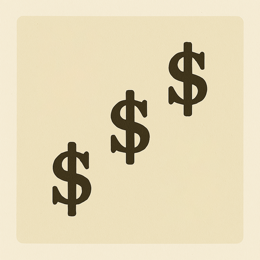
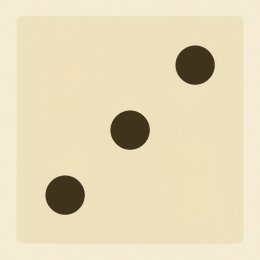
ER$N NO CASH 1118 (master 5750c5c): TOWER LEADERS APPROVED/PENDING, round-pip die, Ap bribe seal, JUICE FLOW deed marker; verify 120/120

Changed region(s): [[0.1538, 0.5231, 0.3692, 0.8308], [0.4, 0.3385, 0.5846, 0.6462], [0.6462, 0.1538, 0.8308, 0.4615]]

diff --git a/3d.html b/3d.html
@@ -1,5 +1,5 @@
 <!DOCTYPE html>
-<!-- ER$N 3D EDITION: cut by 3D PIPELINE games/ersn/lab/tools/make_lab_page.py from index.html (this bundle) sha256 75bfd0ff30f61a7a; 29 /*LAB3D*/ hooks. -->
+<!-- ER$N 3D EDITION: cut by 3D PIPELINE games/ersn/lab/tools/make_lab_page.py from index.html (this bundle) sha256 c30ffc9d0ac201c9; 29 /*LAB3D*/ hooks. -->
 <html lang="en">
 <head>
 <meta charset="utf-8">
@@ -764,7 +764,7 @@
           <li>Roll <b>1 six-sided die</b>, gain that much Juice<br><i>Juice is the currency of momentum</i></li>
           <li>Resolve any start-of-turn effects</li>
         </ul>
-        <p><b><i>BRIBES</i></b>: Before moving you may spend <b>3 Juice</b> to acquire a Bribe<br><i>Use a golden token dollar-sign up to track</i></p>
+        <p><b><i>BRIBES</i></b>: Before moving you may spend <b>3 Juice</b> to acquire a Bribe<br><i>Use a golden Ap seal token to track</i></p>
         <ul>
           <li class="arr">Play to <b><i>REVERSE</i></b> a targeted Asset effect or cancel an SEC effect (for you), or buy past a <b><i>TRUST CHECK</i></b> into the <b><i>LOUNGE</i></b> — <b>BUT</b> every Bribe used adds <b>+2 Risk</b> (and −1 Final Favor)</li>
         </ul>
@@ -1241,7 +1241,7 @@ Promise.all([load(A.board),load(A.env),load(A.juice),load(A.pawn),load(A.accr),.
 let liftImgs=[], liftPad=null;
 Promise.all([1,2,3,4,5].map(n=>load(`assets/sprites/teleporter/lift${n}.png`))).then(r=>{ liftImgs=r; });
 load('assets/sprites/teleporter/pad.png').then(img=>{ liftPad=img; });
-// BRIBE coin (assets/sprites/coin-bribe.png) — Joe's painted $ coin. Spins up off the pawn on buy/spend.
+// BRIBE seal (assets/sprites/coin-bribe.png) — Joe's painted token, its $ re-struck as the Ap seal (NO CASH, 1118). Spins up off the pawn on buy/spend.
 let coinBribeImg=null; load('assets/sprites/coin-bribe.png').then(img=>{ coinBribeImg=img; });
 let coinFX=[];   // {x,y,start,spend} — board coin flourishes
 // DECK MARKER chips (ASSET=bank · MARKET=$ · SEC=watchdog) — mark the deck piles on the black-hole
@@ -2061,7 +2061,7 @@ const SHARKY_HELP=[
   {id:'reaction', when:(p,g)=>(p.hand||[]).some(isReactionCard),
    line:"You're sitting on a reaction (⚡). Don't waste it now — the game freezes and asks YOU the second it can fire."},
   {id:'bribe', when:(p,g)=>p.bribes>0,
-   line:"See that Bribe coin 🪙? It buys you out of a cold WHY ASK? roll or shoves you straight into the Lounge — but every one you spend is +2 RISK on your own head. Play it desperate, play it at the wire, and watch burnout."},
+   line:"See that Bribe seal? It buys you out of a cold WHY ASK? roll or shoves you straight into the Lounge — but every one you spend is +2 RISK on your own head. Play it desperate, play it at the wire, and watch burnout."},
   {id:'bribe_cost', when:(p,g)=>p.ff_bribe_used>=1,
    line:"That Bribe you burned? It was a LOAN. Every Bribe spent is −1 Final Favor when the lights go out. Buy your way past dice that would kill you — not out of pocket change."},
 ];
@@ -2100,11 +2100,11 @@ const IDLE_GENERAL=[
   "The die's the round thing with the dots. It works when you touch it.",
 ];
 const IDLE_PROMPT={
-  bribe:"It's three Juice for a get-out-of-jail coin. Yes or no — the cashier's window is closing.",
+  bribe:"It's three Juice for a get-out-of-jail seal. Yes or no — the notary's window is closing.",
   steps:"Pick a glowing space and CLICK it. Forward, backward, one Juice a step. Standing still is also a choice — usually the wrong one.",
   door:"It's a door, kid. Through it or past it. Just don't sleep in the doorway.",
   enterLounge:"The Lounge is RIGHT THERE. In or out — the velvet rope isn't getting any softer.",
-  bribeEntry:"Spend the coin or roll the bones. Decide before I finish this sandwich.",
+  bribeEntry:"Spend the seal or roll the bones. Decide before I finish this sandwich.",
   goldenWalk:"A FREE walk into the Lounge and you're window-shopping? Take it or play the board — but pick.",
   play:"You're holding cards, not family photos. Play one or pass — the deck doesn't care either way.",
   react:"That's a LIVE reaction window. Windows close. That's the whole point of a window.",
@@ -2447,7 +2447,7 @@ function presentPrompt(req,p,resolve){
   let title='',sub='',opts=[];
   switch(req.kind){
     case 'bribe':
-      title='Buy a Bribe coin?'; sub=`${who} · Juice ${p.juice}. A Bribe skips a Trust Check or forces Lounge entry — but SPENDING one adds +2 Risk and costs a Final-Favor point. (Buying is free; the Risk lands when you use it.)`;
+      title='Buy a Bribe seal?'; sub=`${who} · Juice ${p.juice}. A Bribe skips a Trust Check or forces Lounge entry — but SPENDING one adds +2 Risk and costs a Final-Favor point. (Buying is free; the Risk lands when you use it.)`;
       opts=[{label:'BUY · −3 Juice',value:true,cls:'go'},{label:'Skip',value:false,cls:'no'}]; break;
     case 'steps':{ const max=Math.max(p.abilityName==='Wu Drainer'?1:0,Math.min(Math.max(0,Math.floor(p.juice)),LOOP_N_UI-1));   // as far as Juice permits (1 Juice/space), up to ~a full loop
       title='Move how far around the loop?'; sub=`${who} · Juice ${p.juice}. ${movementTaxes.get(p)?'2 Juice per step (Junk Vehicle Trust).':'1 Juice per step.'} CLICK a glowing space \u2014 forward OR back \u2014 to move there. Door tolls can shorten a move; use the step buttons for those choices. You draw where you land.`;
@@ -2477,7 +2477,7 @@ function presentPrompt(req,p,resolve){
       }
       break;
     case 'bribeEntry':
-      title='Spend a Bribe to walk straight in?'; sub=`${who} · skip the WHY ASK? roll — a Bribe 🪙 forces ${(game.rules.levels&&!game.collapsed)?'your way onto the REGULATION tier':'Lounge entry'}, but it adds +2 Risk and costs 1 Final-Favor point.`;
+      title='Spend a Bribe to walk straight in?'; sub=`${who} · skip the WHY ASK? roll — a Bribe seal forces ${(game.rules.levels&&!game.collapsed)?'your way onto the REGULATION tier':'Lounge entry'}, but it adds +2 Risk and costs 1 Final-Favor point.`;
       opts=[{label:'Spend Bribe <span class="coinIco"></span> · auto-enter',value:true,cls:'go'},{label:'Risk the WHY ASK? roll',value:false,cls:'no'}]; break;
     case 'space':{   // 90M Black Hole: choose a SPACE to swallow everyone on it (Lounge / Start huddle = the kill)
       title='Drop the $90M Black Hole on which space?'; sub=`${who} · every opponent on the chosen space discards an in-play Asset (or drops to ZERO Juice). The Lounge & Start Circle can hold a crowd.`;
@@ -2494,7 +2494,7 @@ function presentPrompt(req,p,resolve){
       opts=req.candidates.map(c=>({card:c,value:c}));
       opts.push({label:'PASS — play nothing',value:null,cls:'no'}); break;
     case 'bribeClimb':
-      title=req.toLounge?'Bribe your way past the plaque?':'Bribe your way up a tier?'; sub=`${who} · skip this Trust Check: a Bribe 🪙 carries you up, but it adds +2 Risk and costs 1 Final-Favor point.`;
+      title=req.toLounge?'Bribe your way past the plaque?':'Bribe your way up a tier?'; sub=`${who} · skip this Trust Check: a Bribe seal carries you up, but it adds +2 Risk and costs 1 Final-Favor point.`;
       opts=[{label:'Spend Bribe <span class="coinIco"></span>',value:true,cls:'go'},{label:'Roll the Trust Check',value:false,cls:'no'}]; break;
     case 'keepAsset':
       title='Keep which Asset?'; sub=`${who} · the ASSET square drew two. Keep one; the other is discarded.`;
@@ -3506,14 +3506,18 @@ function drawSpaces(now){
   // LEGEND — the five card icons, engraved glyph + meaning (matches the classic panel verbatim)
   {
     const P=plaque(0.600,0.800,0.285,0.086,'LEGEND');
-    const rows=[['$','CASH FLOW'],['bank','MARKET / INSTITUTION'],['shield','RISK / PROTECTION'],['Ap','APPROVAL POINT'],['globe','GLOBAL EVENT']];
+    const rows=[['deed','JUICE FLOW'],['bank','MARKET / INSTITUTION'],['shield','RISK / PROTECTION'],['Ap','APPROVAL POINT'],['globe','GLOBAL EVENT']];
     const rh=(P.y+P.h-P.top-BW*0.003)/rows.length, fs=Math.max(6.5,BW*0.0122), gs=rh*0.40;
     const gx=P.x+P.w*0.115, col=tone('#f0cf7a');
     ctx.save(); ctx.textBaseline='middle'; ctx.lineJoin='round';
     rows.forEach(([k,s],i)=>{ const yy=P.top+rh*(i+0.5);
       ctx.strokeStyle=hexA(col,0.9); ctx.fillStyle=hexA(col,0.9); ctx.lineWidth=Math.max(1,gs*0.16);
-      if(k==='$'||k==='Ap'){ ctx.beginPath(); ctx.arc(gx,yy,gs,0,7); ctx.stroke();
-        ctx.font=`800 ${gs*(k==='$'?1.5:1.05)}px Georgia, serif`; ctx.textAlign='center'; ctx.fillText(k,gx,yy+gs*0.06); }
+      if(k==='Ap'){ ctx.beginPath(); ctx.arc(gx,yy,gs,0,7); ctx.stroke();
+        ctx.font=`800 ${gs*1.05}px Georgia, serif`; ctx.textAlign='center'; ctx.fillText(k,gx,yy+gs*0.06); }
+      else if(k==='deed'){ const b=gs*0.95, f=b*0.42;   // NO CASH (1118): a signed deed, not a $ — sheet, folded corner, lines, seal
+        ctx.beginPath(); ctx.moveTo(gx-b*0.75,yy-b); ctx.lineTo(gx+b*0.75-f,yy-b); ctx.lineTo(gx+b*0.75,yy-b+f); ctx.lineTo(gx+b*0.75,yy+b); ctx.lineTo(gx-b*0.75,yy+b); ctx.closePath(); ctx.stroke();
+        ctx.beginPath(); ctx.moveTo(gx-b*0.42,yy-b*0.45); ctx.lineTo(gx+b*0.35,yy-b*0.45); ctx.moveTo(gx-b*0.42,yy); ctx.lineTo(gx+b*0.2,yy); ctx.moveTo(gx-b*0.42,yy+b*0.5); ctx.lineTo(gx-b*0.05,yy+b*0.5); ctx.stroke();
+        ctx.beginPath(); ctx.arc(gx+b*0.38,yy+b*0.55,b*0.2,0,7); ctx.fill(); }
       else if(k==='bank'){ const b=gs*1.15;
         ctx.beginPath(); ctx.moveTo(gx-b,yy-b*0.28); ctx.lineTo(gx,yy-b*0.95); ctx.lineTo(gx+b,yy-b*0.28); ctx.stroke();   // pediment
         for(let c=-1;c<=1;c++){ ctx.beginPath(); ctx.moveTo(gx+c*b*0.55,yy-b*0.12); ctx.lineTo(gx+c*b*0.55,yy+b*0.62); ctx.stroke(); }
@@ -3591,7 +3595,7 @@ function drawDoorFX(now){
 // in step off these: CHARGE = beam materialises (pawn holds, trembling) · ASCEND = ride up, rider
 // dissolves into the light · SETTLE = spent beam discharges while the rider lands at the Lounge.
 const LIFT_CHARGE=500, LIFT_ASCEND=800, LIFT_SETTLE=450, LIFT_DUR=LIFT_CHARGE+LIFT_ASCEND+LIFT_SETTLE;
-// BRIBE coin flourish — a painted $ coin spins up off the pawn when a Bribe is bought (rises + settles)
+// BRIBE seal flourish — the painted Ap seal token spins up off the pawn when a Bribe is bought (rises + settles)
 // or spent (flips away + fades). Spin = horizontal squash through edge-on. Additive sparkle. Render-only.
 function drawCoinFX(now){
   if(!coinBribeImg || !coinFX.length) return;

diff --git a/index.html b/index.html
@@ -763,7 +763,7 @@
           <li>Roll <b>1 six-sided die</b>, gain that much Juice<br><i>Juice is the currency of momentum</i></li>
           <li>Resolve any start-of-turn effects</li>
         </ul>
-        <p><b><i>BRIBES</i></b>: Before moving you may spend <b>3 Juice</b> to acquire a Bribe<br><i>Use a golden token dollar-sign up to track</i></p>
+        <p><b><i>BRIBES</i></b>: Before moving you may spend <b>3 Juice</b> to acquire a Bribe<br><i>Use a golden Ap seal token to track</i></p>
         <ul>
           <li class="arr">Play to <b><i>REVERSE</i></b> a targeted Asset effect or cancel an SEC effect (for you), or buy past a <b><i>TRUST CHECK</i></b> into the <b><i>LOUNGE</i></b> — <b>BUT</b> every Bribe used adds <b>+2 Risk</b> (and −1 Final Favor)</li>
         </ul>
@@ -1239,7 +1239,7 @@ Promise.all([load(A.board),load(A.env),load(A.juice),load(A.pawn),load(A.accr),.
 let liftImgs=[], liftPad=null;
 Promise.all([1,2,3,4,5].map(n=>load(`assets/sprites/teleporter/lift${n}.png`))).then(r=>{ liftImgs=r; });
 load('assets/sprites/teleporter/pad.png').then(img=>{ liftPad=img; });
-// BRIBE coin (assets/sprites/coin-bribe.png) — Joe's painted $ coin. Spins up off the pawn on buy/spend.
+// BRIBE seal (assets/sprites/coin-bribe.png) — Joe's painted token, its $ re-struck as the Ap seal (NO CASH, 1118). Spins up off the pawn on buy/spend.
 let coinBribeImg=null; load('assets/sprites/coin-bribe.png').then(img=>{ coinBribeImg=img; });
 let coinFX=[];   // {x,y,start,spend} — board coin flourishes
 // DECK MARKER chips (ASSET=bank · MARKET=$ · SEC=watchdog) — mark the deck piles on the black-hole
@@ -2046,7 +2046,7 @@ const SHARKY_HELP=[
   {id:'reaction', when:(p,g)=>(p.hand||[]).some(isReactionCard),
    line:"You're sitting on a reaction (⚡). Don't waste it now — the game freezes and asks YOU the second it can fire."},
   {id:'bribe', when:(p,g)=>p.bribes>0,
-   line:"See that Bribe coin 🪙? It buys you out of a cold WHY ASK? roll or shoves you straight into the Lounge — but every one you spend is +2 RISK on your own head. Play it desperate, play it at the wire, and watch burnout."},
+   line:"See that Bribe seal? It buys you out of a cold WHY ASK? roll or shoves you straight into the Lounge — but every one you spend is +2 RISK on your own head. Play it desperate, play it at the wire, and watch burnout."},
   {id:'bribe_cost', when:(p,g)=>p.ff_bribe_used>=1,
    line:"That Bribe you burned? It was a LOAN. Every Bribe spent is −1 Final Favor when the lights go out. Buy your way past dice that would kill you — not out of pocket change."},
 ];
@@ -2085,11 +2085,11 @@ const IDLE_GENERAL=[
   "The die's the round thing with the dots. It works when you touch it.",
 ];
 const IDLE_PROMPT={
-  bribe:"It's three Juice for a get-out-of-jail coin. Yes or no — the cashier's window is closing.",
+  bribe:"It's three Juice for a get-out-of-jail seal. Yes or no — the notary's window is closing.",
   steps:"Pick a glowing space and CLICK it. Forward, backward, one Juice a step. Standing still is also a choice — usually the wrong one.",
   door:"It's a door, kid. Through it or past it. Just don't sleep in the doorway.",
   enterLounge:"The Lounge is RIGHT THERE. In or out — the velvet rope isn't getting any softer.",
-  bribeEntry:"Spend the coin or roll the bones. Decide before I finish this sandwich.",
+  bribeEntry:"Spend the seal or roll the bones. Decide before I finish this sandwich.",
   goldenWalk:"A FREE walk into the Lounge and you're window-shopping? Take it or play the board — but pick.",
   play:"You're holding cards, not family photos. Play one or pass — the deck doesn't care either way.",
   react:"That's a LIVE reaction window. Windows close. That's the whole point of a window.",
@@ -2431,7 +2431,7 @@ function presentPrompt(req,p,resolve){
   let title='',sub='',opts=[];
   switch(req.kind){
     case 'bribe':
-      title='Buy a Bribe coin?'; sub=`${who} · Juice ${p.juice}. A Bribe skips a Trust Check or forces Lounge entry — but SPENDING one adds +2 Risk and costs a Final-Favor point. (Buying is free; the Risk lands when you use it.)`;
+      title='Buy a Bribe seal?'; sub=`${who} · Juice ${p.juice}. A Bribe skips a Trust Check or forces Lounge entry — but SPENDING one adds +2 Risk and costs a Final-Favor point. (Buying is free; the Risk lands when you use it.)`;
       opts=[{label:'BUY · −3 Juice',value:true,cls:'go'},{label:'Skip',value:false,cls:'no'}]; break;
     case 'steps':{ const max=Math.max(p.abilityName==='Wu Drainer'?1:0,Math.min(Math.max(0,Math.floor(p.juice)),LOOP_N_UI-1));   // as far as Juice permits (1 Juice/space), up to ~a full loop
       title='Move how far around the loop?'; sub=`${who} · Juice ${p.juice}. ${movementTaxes.get(p)?'2 Juice per step (Junk Vehicle Trust).':'1 Juice per step.'} CLICK a glowing space \u2014 forward OR back \u2014 to move there. Door tolls can shorten a move; use the step buttons for those choices. You draw where you land.`;
@@ -2461,7 +2461,7 @@ function presentPrompt(req,p,resolve){
       }
       break;
     case 'bribeEntry':
-      title='Spend a Bribe to walk straight in?'; sub=`${who} · skip the WHY ASK? roll — a Bribe 🪙 forces ${(game.rules.levels&&!game.collapsed)?'your way onto the REGULATION tier':'Lounge entry'}, but it adds +2 Risk and costs 1 Final-Favor point.`;
+      title='Spend a Bribe to walk straight in?'; sub=`${who} · skip the WHY ASK? roll — a Bribe seal forces ${(game.rules.levels&&!game.collapsed)?'your way onto the REGULATION tier':'Lounge entry'}, but it adds +2 Risk and costs 1 Final-Favor point.`;
       opts=[{label:'Spend Bribe <span class="coinIco"></span> · auto-enter',value:true,cls:'go'},{label:'Risk the WHY ASK? roll',value:false,cls:'no'}]; break;
     case 'space':{   // 90M Black Hole: choose a SPACE to swallow everyone on it (Lounge / Start huddle = the kill)
       title='Drop the $90M Black Hole on which space?'; sub=`${who} · every opponent on the chosen space discards an in-play Asset (or drops to ZERO Juice). The Lounge & Start Circle can hold a crowd.`;
@@ -2478,7 +2478,7 @@ function presentPrompt(req,p,resolve){
       opts=req.candidates.map(c=>({card:c,value:c}));
       opts.push({label:'PASS — play nothing',value:null,cls:'no'}); break;
     case 'bribeClimb':
-      title=req.toLounge?'Bribe your way past the plaque?':'Bribe your way up a tier?'; sub=`${who} · skip this Trust Check: a Bribe 🪙 carries you up, but it adds +2 Risk and costs 1 Final-Favor point.`;
+      title=req.toLounge?'Bribe your way past the plaque?':'Bribe your way up a tier?'; sub=`${who} · skip this Trust Check: a Bribe seal carries you up, but it adds +2 Risk and costs 1 Final-Favor point.`;
       opts=[{label:'Spend Bribe <span class="coinIco"></span>',value:true,cls:'go'},{label:'Roll the Trust Check',value:false,cls:'no'}]; break;
     case 'keepAsset':
       title='Keep which Asset?'; sub=`${who} · the ASSET square drew two. Keep one; the other is discarded.`;
@@ -3481,14 +3481,18 @@ function drawSpaces(now){
   // LEGEND — the five card icons, engraved glyph + meaning (matches the classic panel verbatim)
   {
     const P=plaque(0.600,0.800,0.285,0.086,'LEGEND');
-    const rows=[['$','CASH FLOW'],['bank','MARKET / INSTITUTION'],['shield','RISK / PROTECTION'],['Ap','APPROVAL POINT'],['globe','GLOBAL EVENT']];
+    const rows=[['deed','JUICE FLOW'],['bank','MARKET / INSTITUTION'],['shield','RISK / PROTECTION'],['Ap','APPROVAL POINT'],['globe','GLOBAL EVENT']];
     const rh=(P.y+P.h-P.top-BW*0.003)/rows.length, fs=Math.max(6.5,BW*0.0122), gs=rh*0.40;
     const gx=P.x+P.w*0.115, col=tone('#f0cf7a');
     ctx.save(); ctx.textBaseline='middle'; ctx.lineJoin='round';
     rows.forEach(([k,s],i)=>{ const yy=P.top+rh*(i+0.5);
       ctx.strokeStyle=hexA(col,0.9); ctx.fillStyle=hexA(col,0.9); ctx.lineWidth=Math.max(1,gs*0.16);
-      if(k==='$'||k==='Ap'){ ctx.beginPath(); ctx.arc(gx,yy,gs,0,7); ctx.stroke();
-        ctx.font=`800 ${gs*(k==='$'?1.5:1.05)}px Georgia, serif`; ctx.textAlign='center'; ctx.fillText(k,gx,yy+gs*0.06); }
+      if(k==='Ap'){ ctx.beginPath(); ctx.arc(gx,yy,gs,0,7); ctx.stroke();
+        ctx.font=`800 ${gs*1.05}px Georgia, serif`; ctx.textAlign='center'; ctx.fillText(k,gx,yy+gs*0.06); }
+      else if(k==='deed'){ const b=gs*0.95, f=b*0.42;   // NO CASH (1118): a signed deed, not a $ — sheet, folded corner, lines, seal
+        ctx.beginPath(); ctx.moveTo(gx-b*0.75,yy-b); ctx.lineTo(gx+b*0.75-f,yy-b); ctx.lineTo(gx+b*0.75,yy-b+f); ctx.lineTo(gx+b*0.75,yy+b); ctx.lineTo(gx-b*0.75,yy+b); ctx.closePath(); ctx.stroke();
+        ctx.beginPath(); ctx.moveTo(gx-b*0.42,yy-b*0.45); ctx.lineTo(gx+b*0.35,yy-b*0.45); ctx.moveTo(gx-b*0.42,yy); ctx.lineTo(gx+b*0.2,yy); ctx.moveTo(gx-b*0.42,yy+b*0.5); ctx.lineTo(gx-b*0.05,yy+b*0.5); ctx.stroke();
+        ctx.beginPath(); ctx.arc(gx+b*0.38,yy+b*0.55,b*0.2,0,7); ctx.fill(); }
       else if(k==='bank'){ const b=gs*1.15;
         ctx.beginPath(); ctx.moveTo(gx-b,yy-b*0.28); ctx.lineTo(gx,yy-b*0.95); ctx.lineTo(gx+b,yy-b*0.28); ctx.stroke();   // pediment
         for(let c=-1;c<=1;c++){ ctx.beginPath(); ctx.moveTo(gx+c*b*0.55,yy-b*0.12); ctx.lineTo(gx+c*b*0.55,yy+b*0.62); ctx.stroke(); }
@@ -3566,7 +3570,7 @@ function drawDoorFX(now){
 // in step off these: CHARGE = beam materialises (pawn holds, trembling) · ASCEND = ride up, rider
 // dissolves into the light · SETTLE = spent beam discharges while the rider lands at the Lounge.
 const LIFT_CHARGE=500, LIFT_ASCEND=800, LIFT_SETTLE=450, LIFT_DUR=LIFT_CHARGE+LIFT_ASCEND+LIFT_SETTLE;
-// BRIBE coin flourish — a painted $ coin spins up off the pawn when a Bribe is bought (rises + settles)
+// BRIBE seal flourish — the painted Ap seal token spins up off the pawn when a Bribe is bought (rises + settles)
 // or spent (flips away + fades). Spin = horizontal squash through edge-on. Additive sparkle. Render-only.
 function drawCoinFX(now){
   if(!coinBribeImg || !coinFX.length) return;
